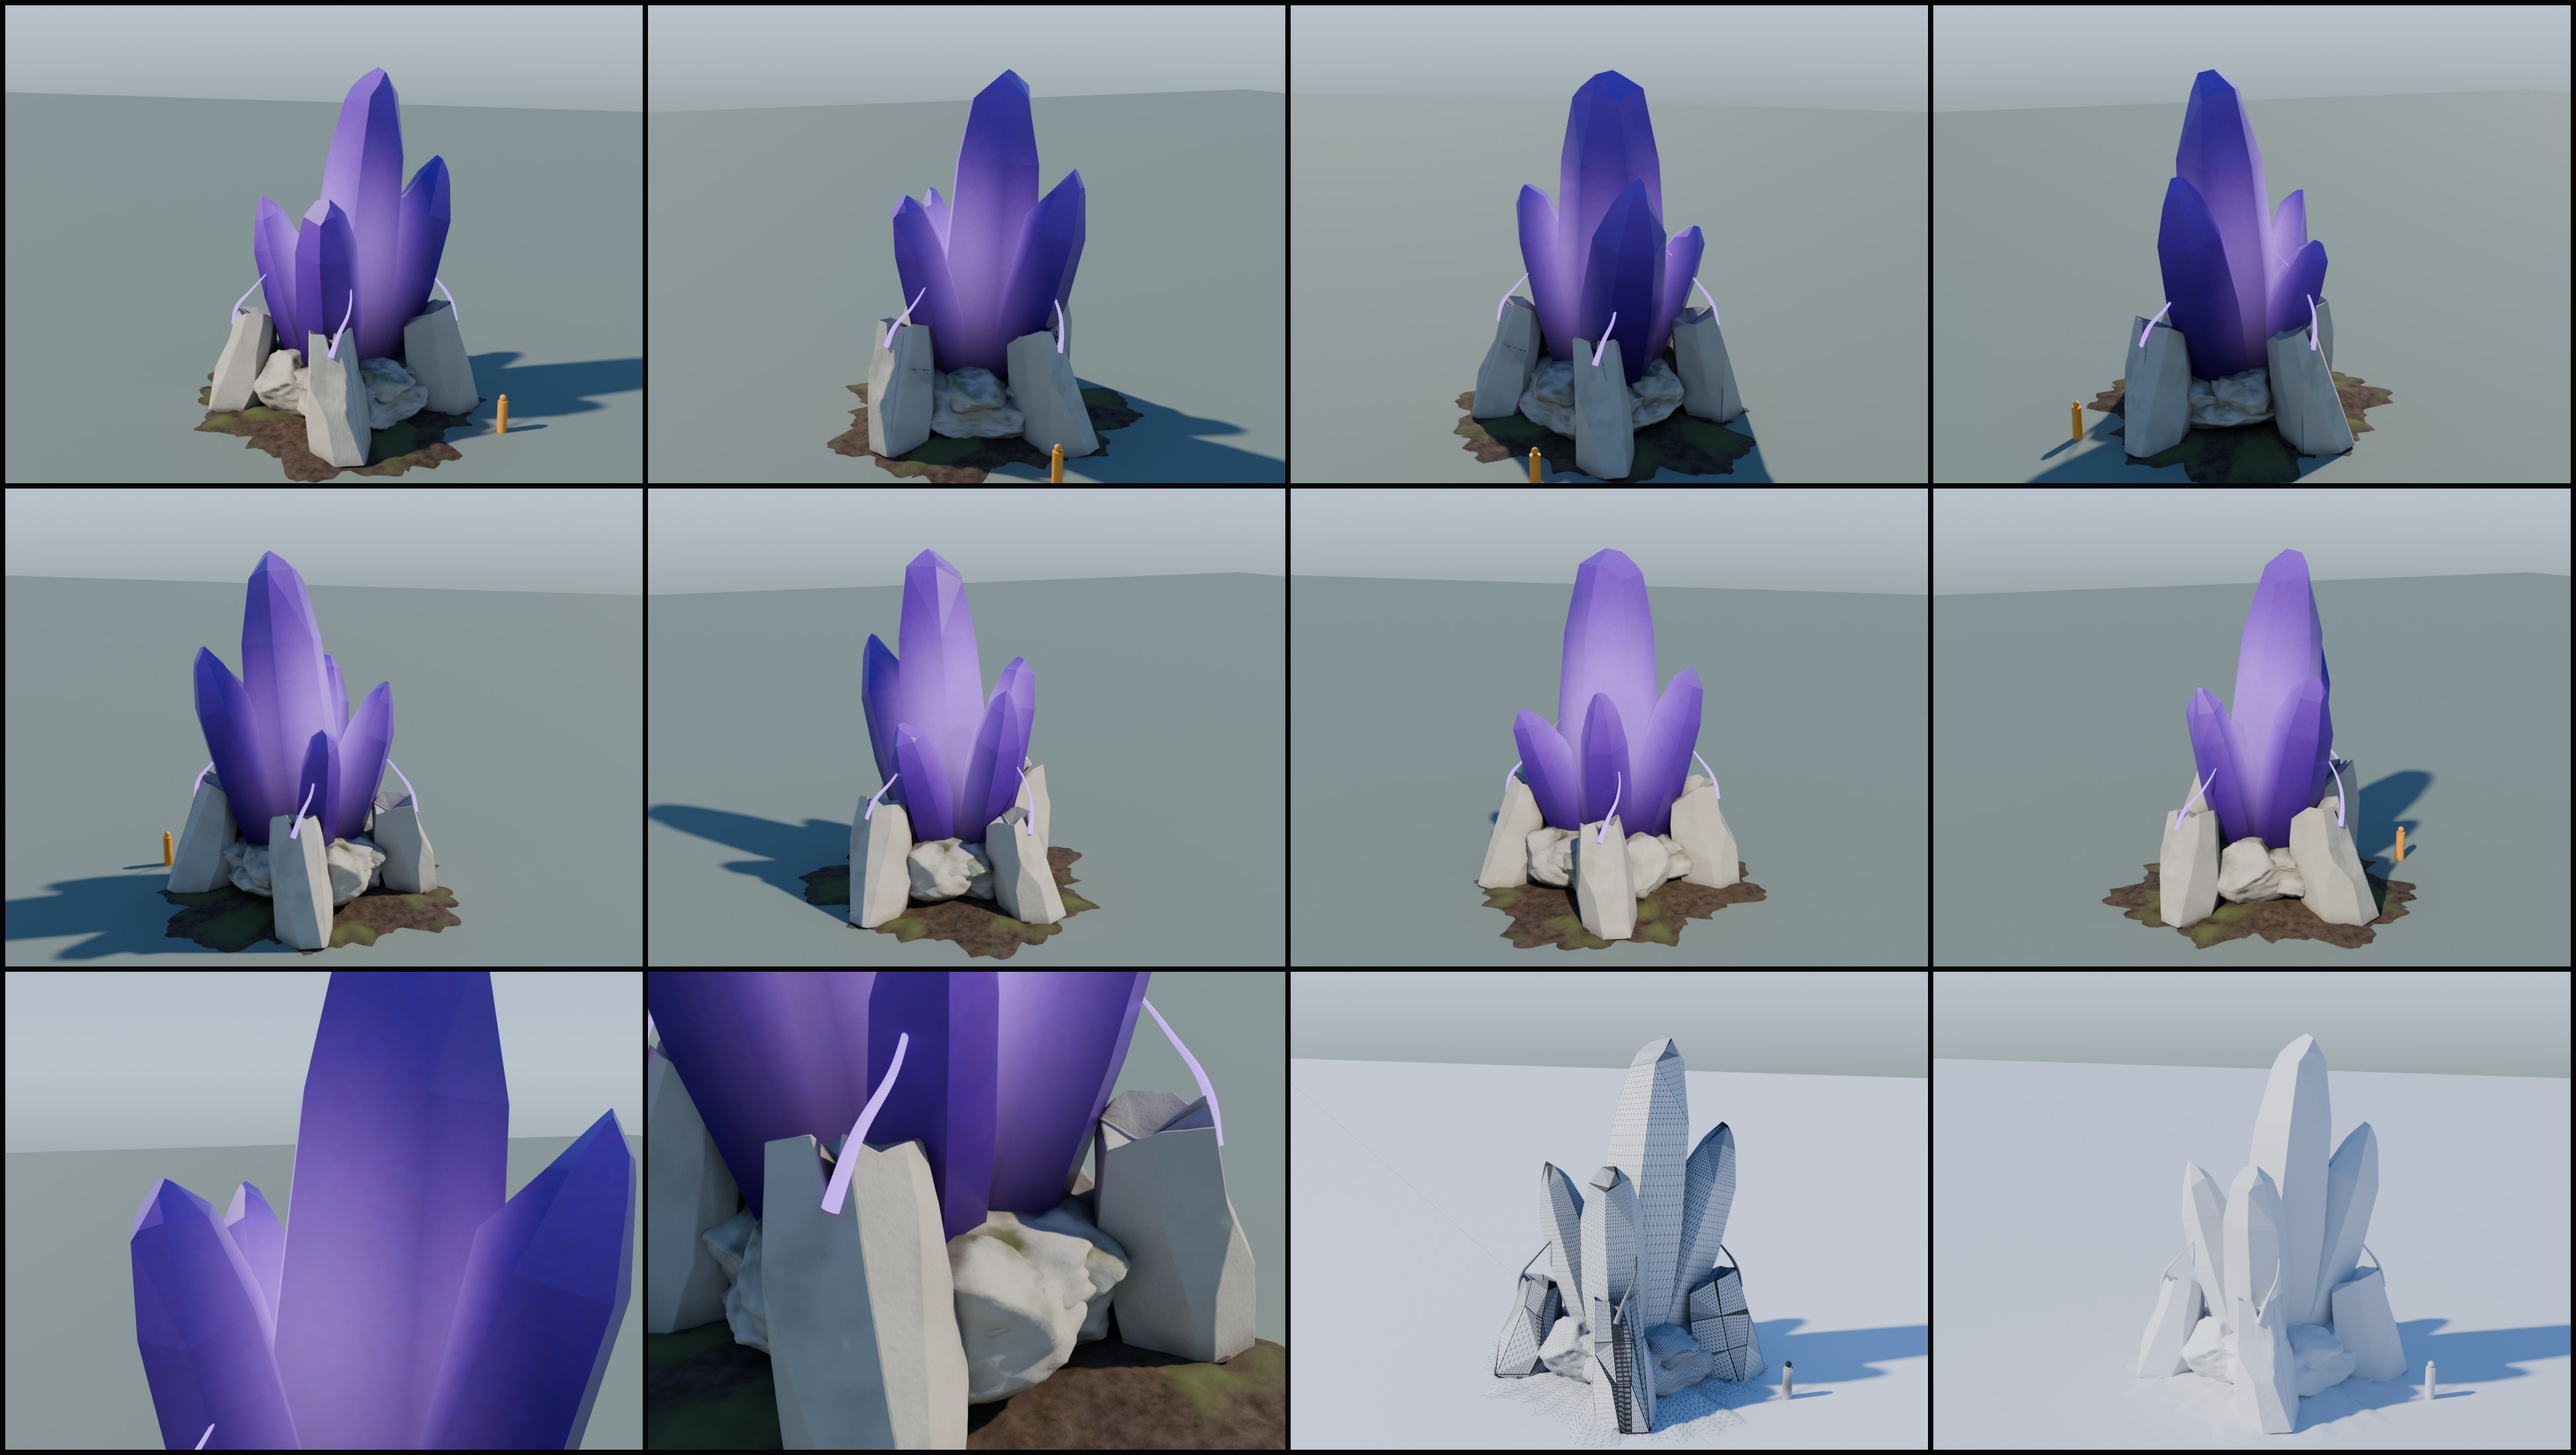
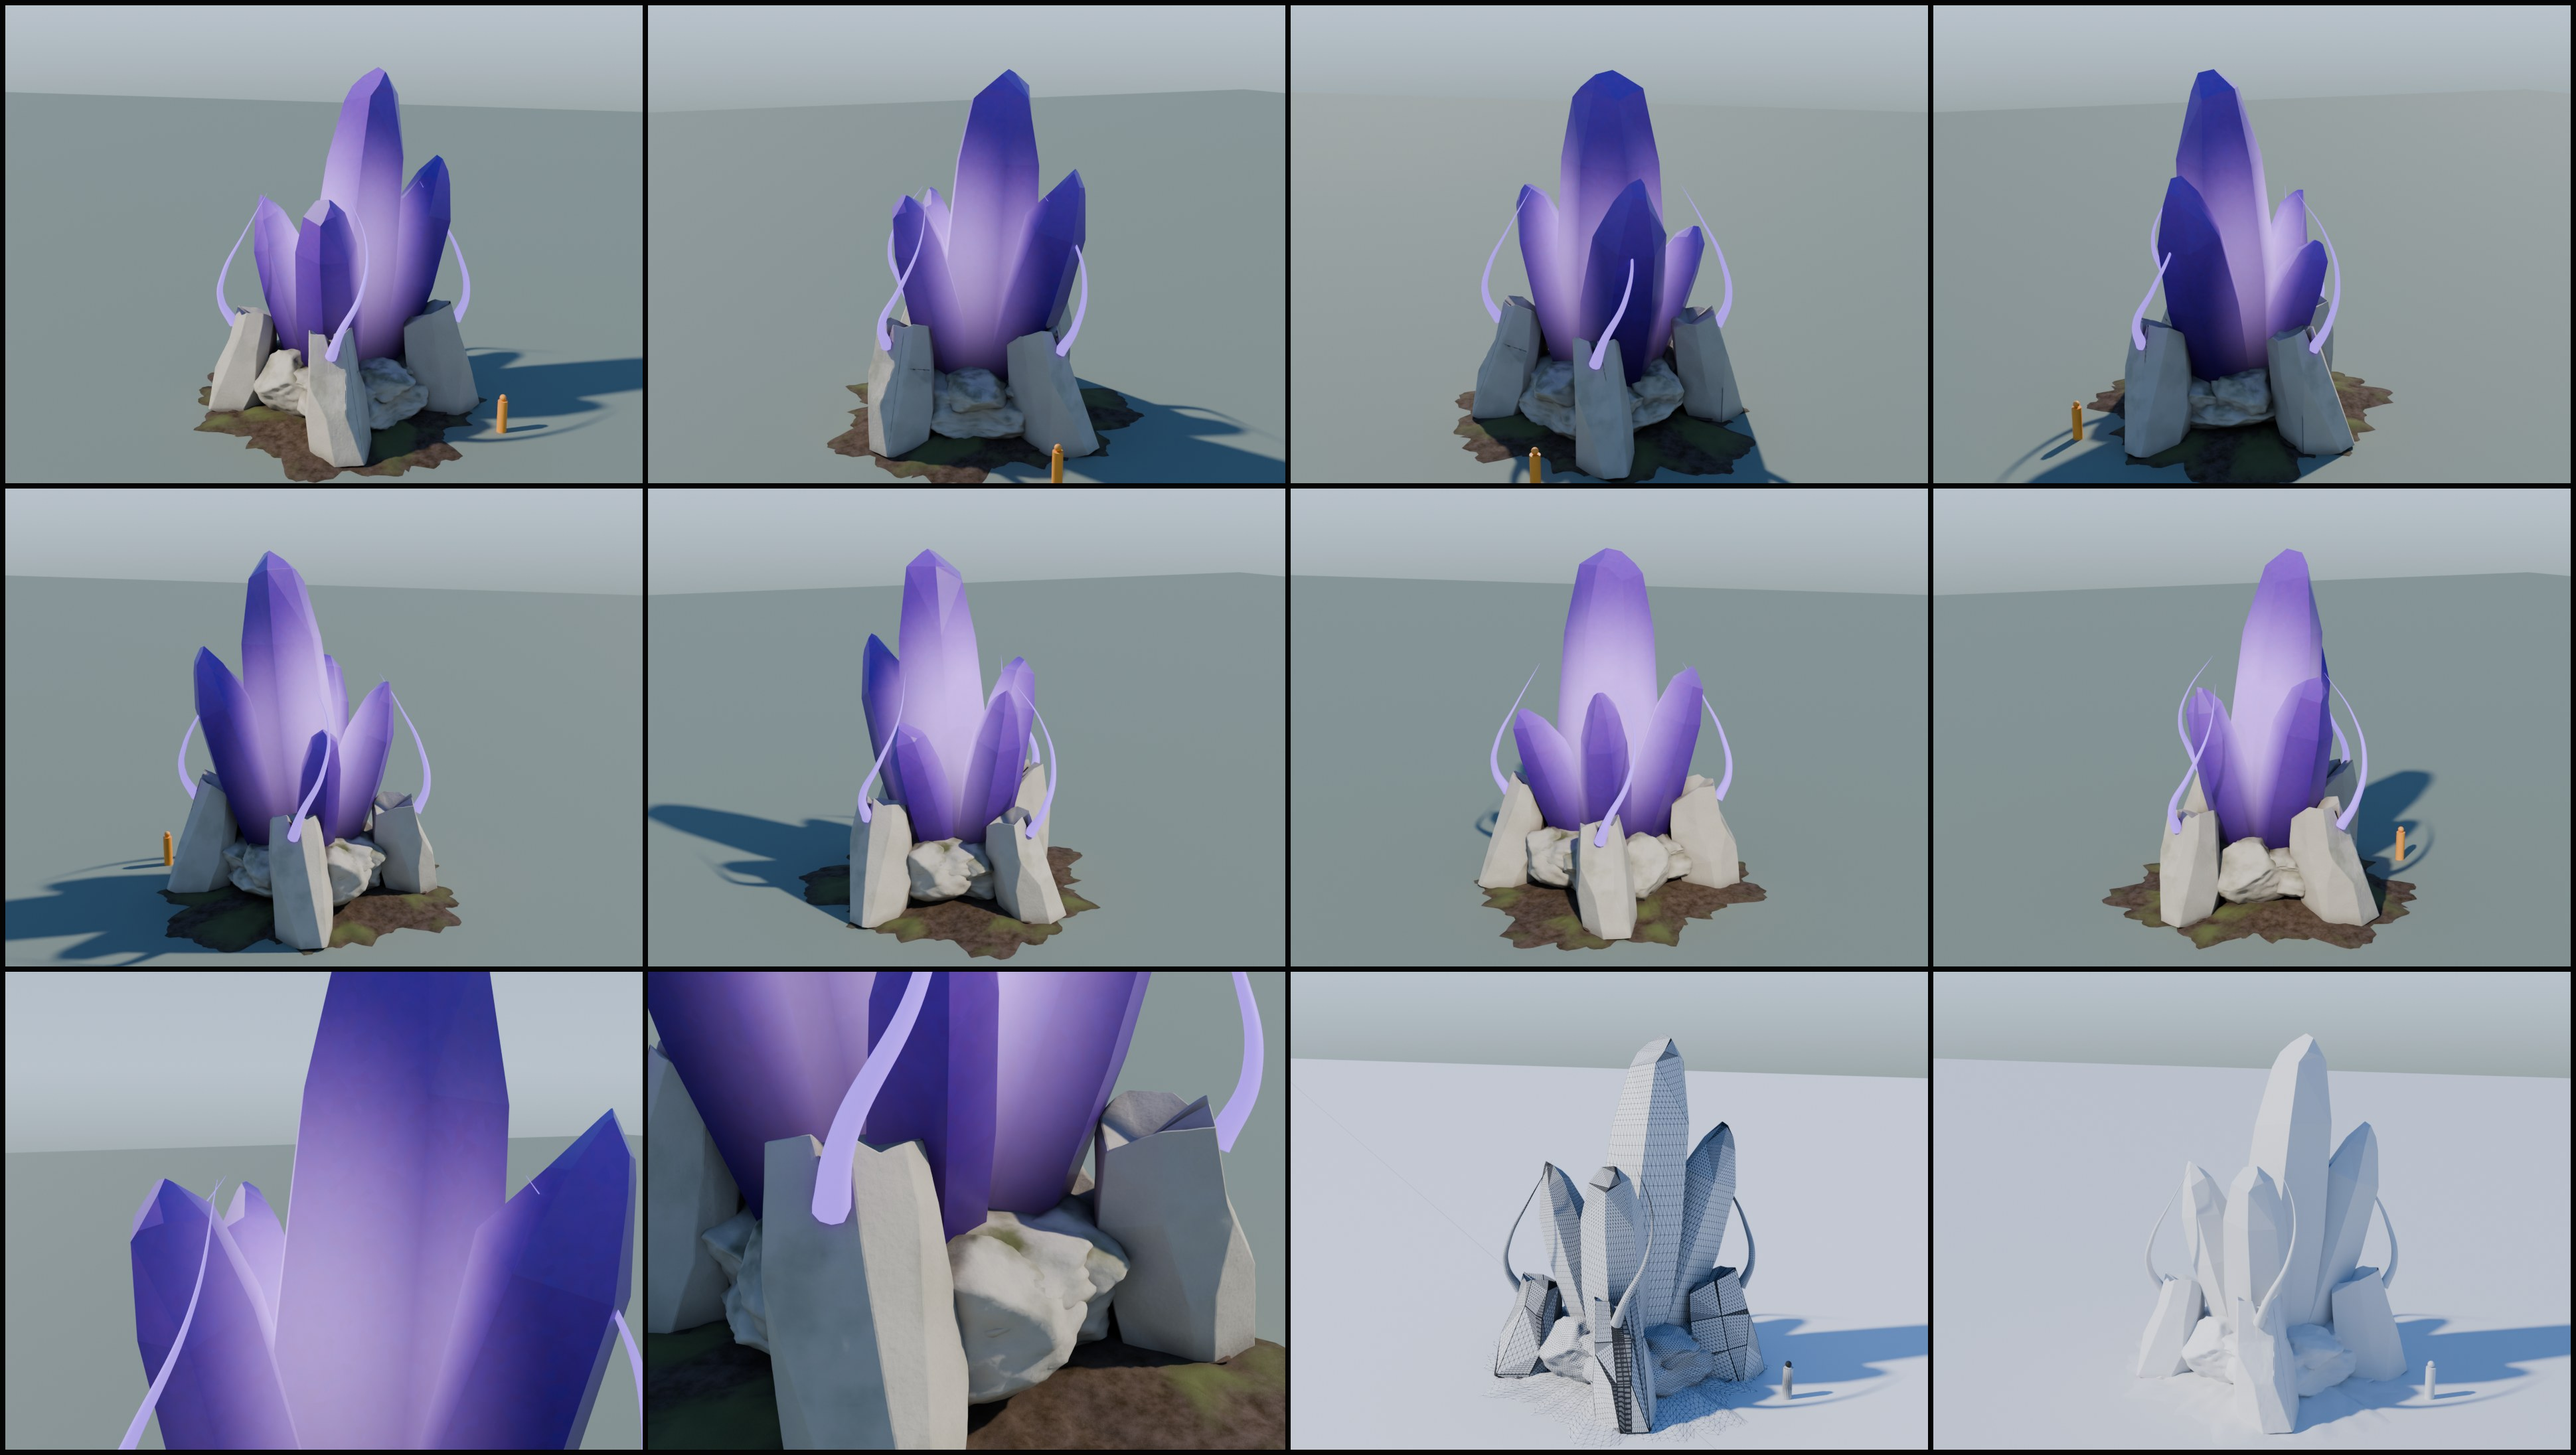
Strengthen core glow and lengthen stone-rooted violet filaments

diff --git a/assets/crystals/energy_core_a/build.py b/assets/crystals/energy_core_a/build.py
@@ -403,14 +403,14 @@ def radial_glow(crystals):
     attribute.attribute_name = "core_glow"
     gain = nodes.new("ShaderNodeMath")
     gain.operation = "MULTIPLY_ADD"
-    gain.inputs[1].default_value = 1.8
+    gain.inputs[1].default_value = 2.8
     gain.inputs[2].default_value = 0.015
     links.new(attribute.outputs["Fac"], gain.inputs[0])
     links.new(gain.outputs[0], bsdf.inputs["Emission Strength"])
     palette = vrmat.load_palette()
     body = bsdf.inputs["Base Color"].links[0].from_socket
     inner = nodes.new("ShaderNodeMixRGB")
-    inner.inputs[0].default_value = 0.18
+    inner.inputs[0].default_value = 0.24
     inner.inputs[2].default_value = (*palette["violet_glow"]["linear_rgb"], 1)
     links.new(body, inner.inputs[1])
     links.new(inner.outputs[0], bsdf.inputs["Emission Color"])
@@ -502,24 +502,24 @@ def energy_filaments(stones):
         for link in list(bsdf.inputs[name].links):
             material.node_tree.links.remove(link)
     bsdf.inputs["Base Color"].default_value = (*palette["violet_body"]["linear_rgb"], 1)
-    bsdf.inputs["Emission Color"].default_value = tuple(
-        0.92 * a + 0.08 * b for a, b in zip(palette["violet_body"]["linear_rgb"],
-                                          palette["violet_glow"]["linear_rgb"])) + (1,)
-    bsdf.inputs["Emission Strength"].default_value = 2.6
+    bsdf.inputs["Emission Color"].default_value = (*palette["violet_shadow"]["linear_rgb"], 1)
+    bsdf.inputs["Emission Strength"].default_value = 3.2
     bsdf.inputs["Roughness"].default_value = 0.45
+    bsdf.inputs["Coat Weight"].default_value = 0
+    bsdf.inputs["Specular IOR Level"].default_value = 0.12
     for i, stone in enumerate(stones):
         anchor = stone.matrix_world @ Vector(stone["socket_local"])
         angle = math.atan2(anchor.y, anchor.x)
         radial = Vector((math.cos(angle), math.sin(angle), 0))
         tangent = Vector((-math.sin(angle), math.cos(angle), 0))
         points = [anchor - Vector((0, 0, 0.08))]
-        for outward, around, height in ((-0.2, 0.3, 0.8), (-0.9, 0.7, 1.7),
-                                        (-1.8, 0.65, 2.7), (-2.7, 0.15, 3.7)):
+        for outward, around, height in ((0.5, 0.4, 1.1), (0.15, 1.25, 2.8),
+                                        (-0.8, 1.4, 4.6), (-1.8, 0.6, 6.4)):
             points.append(anchor + radial * outward + tangent * around + Vector((0, 0, height)))
         curve = bpy.data.curves.new(f"filament_{i}", "CURVE")
         curve.dimensions = "3D"
         curve.resolution_u = 20
-        curve.bevel_depth = 0.075
+        curve.bevel_depth = 0.14
         curve.bevel_resolution = 3
         spline = curve.splines.new("BEZIER")
         spline.bezier_points.add(len(points) - 1)
